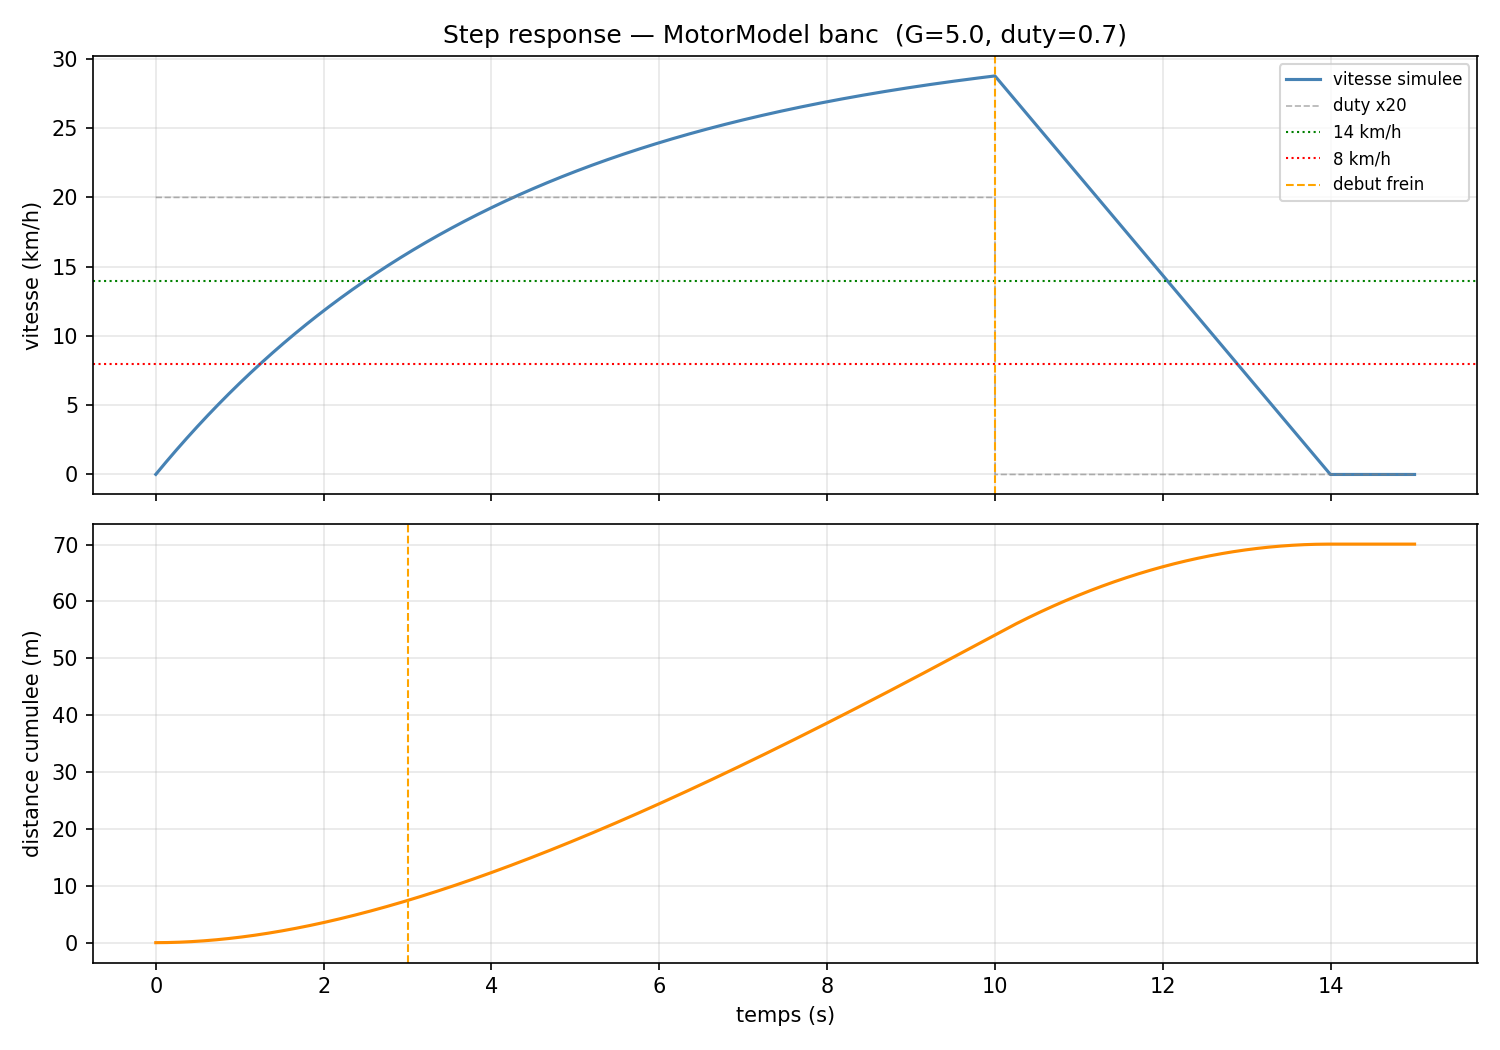
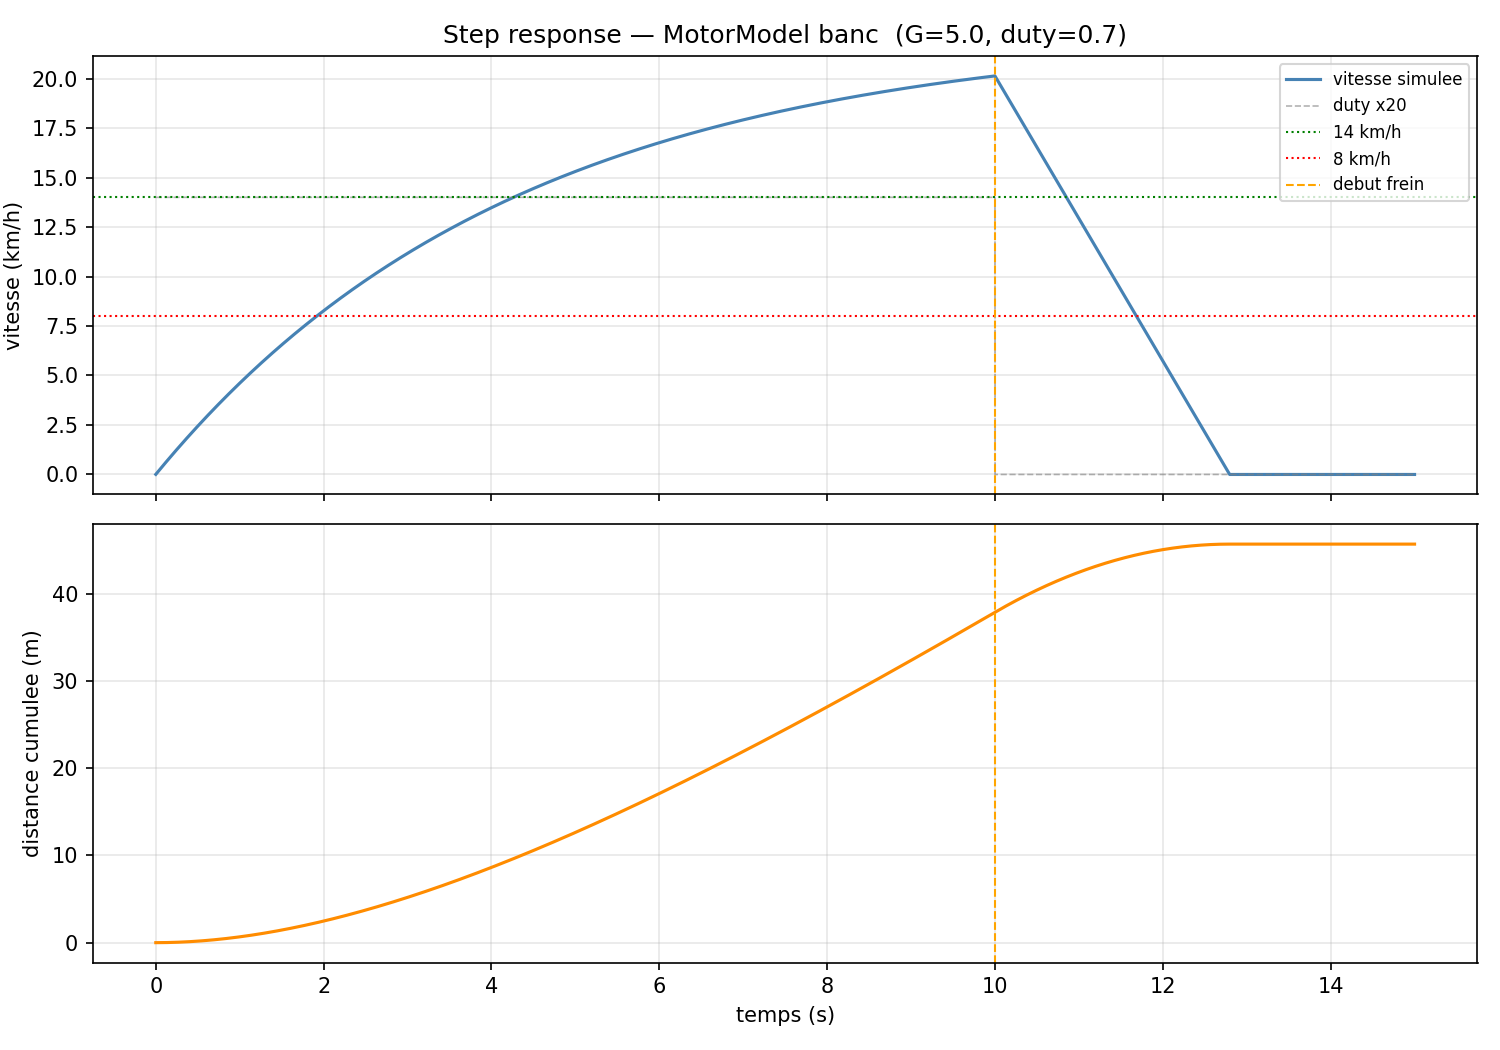
modelisation elec/meca d'Hermes + plot

diff --git a/Hermes/optimisation adaptive des parametres PID/simulation/test_motor_model.py b/Hermes/optimisation adaptive des parametres PID/simulation/test_motor_model.py
@@ -28,7 +28,7 @@ for n in range(int(t_max / dt)):
     t = n * dt
 
     if   t < 10.0:
-        duty = 1
+        duty = 0.7
     else:
         duty = 0.0
 
@@ -57,7 +57,7 @@ print("=" * 40)
 print(f"  Vitesse max atteinte   : {vit_max:.2f} km/h")
 print(f"  Vitesse au freinage    : {vit_debut_frein:.2f} km/h")
 if t_atteint_8:
-    duree_frein = t_atteint_8 - 3.0
+    duree_frein = t_atteint_8 - 10.0
     dist_frein  = distances[int(t_atteint_8 / dt)] - distances[idx_frein]
     decel       = (vit_debut_frein - 8.0) / 3.6 / duree_frein
     print(f"  Temps pour atteindre 8 km/h : {duree_frein*1000:.0f} ms")
@@ -84,7 +84,7 @@ ax1.set_title(f"Step response — MotorModel banc  (G={motor.G}, duty=0.7)")
 
 # Distance
 ax2.plot(temps, distances, color='darkorange', linewidth=1.5)
-ax2.axvline(x=3.0, color='orange', linestyle='--', linewidth=1)
+ax2.axvline(x=10.0, color='orange', linestyle='--', linewidth=1)
 ax2.set_ylabel("distance cumulee (m)")
 ax2.set_xlabel("temps (s)")
 ax2.grid(True, alpha=0.3)
